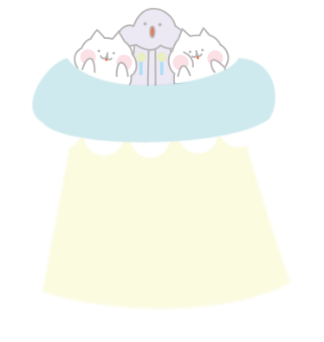
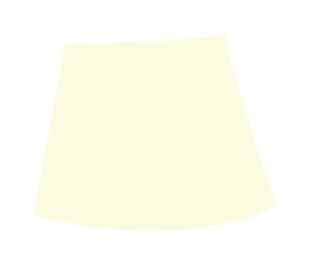
更新しました。

Changed region(s): [[0.0871, 0.0, 0.9, 0.9091]]

diff --git a/js/main.js b/js/main.js
@@ -4,7 +4,7 @@ $(function () {
     var UFO_currentY = UFO_kidnap.offset().top;
     console.log(UFO_currentY);
 
-    
+
 
     //ハンバーガーメニュー
     $('.btn_menu').click(function () {
@@ -17,111 +17,120 @@ $(function () {
         text: 'ニャー、 すもう　かっこいい\nニャー、 ちきゅう　ジャックするね'
     });
 
+//プロローグ中はスクロール不可(setTimeout)
+    setTimeout(function () {
+        // スクロールすると表示
+        $(window).on("scroll", function () {
+
+            //スクロールの値
+            var scrollY = $(this).scrollTop();
+
+
+
+            $('.spaceship_light_img').addClass('fade-in');
 
 
 
 
 
 
-    // スクロールすると表示
-    $(window).on("load scroll resize", function () {
-
-        //スクロールの値
-        var posY = $(this).scrollTop();
 
 
-        // WEBアイコン表示
-        var web_targetY = $('.potfolio_web_background').offset().top - 150;
-        console.log(web_targetY);
 
-        if (posY > web_targetY) {
-            /*表示1_星（左上左）*/
-            $('#web_star8').addClass('web_star8_anime');
-            /*表示2_星（右上左）*/
-            $('#web_star2').addClass('web_star2_anime');
-            /*表示3_星（左上右）*/
-            $('#web_star1').addClass('web_star1_anime');
-            /*表示4_星（右上右）*/
-            $('#web_star3').addClass('web_star3_anime');
-            /*表示5_星（左下右）*/
-            $('#web_star6').addClass('web_star6_anime');
+            // WEBアイコン表示
+            var web_targetY = $('.potfolio_web_background').offset().top - 150;
+            console.log(web_targetY);
 
-            /*表示6_星（右下右）*/
-            $('#web_star4').addClass('web_star4_anime');
-            /*表示7_星（右下左）*/
-            $('#web_star5').addClass('web_star5_anime');
-            /*表示8_星（左下左）*/
-            $('#web_star7').addClass('web_star7_anime');
-            /*表示9_星（右）*/
-            $('#web_star9').addClass('web_star9_anime');
-            /*表示10_星（左）*/
-            $('#web_star10').addClass('web_star10_anime');
-            /*表示11_星（右上）*/
-            $('#web_star11').addClass('web_star11_anime');
-            /*表示15_星（右中間）*/
-            $('#web_star12').addClass('web_star12_anime');
-            /*表示12_星（左下）*/
-            $('#web_star14').addClass('web_star14_anime');
-            /*表示13_星（右下）*/
-            $('#web_star13').addClass('web_star13_anime');
-            /*表示14_星（左上）*/
-            $('#web_star16').addClass('web_star16_anime');
-            /*表示16_星（左中間）*/
-            $('#web_star15').addClass('web_star15_anime');
-            /*表示17_枠*/
-            $('#web_frame').addClass('web_frame_anime');
-            /*表示18_枠*/
-            $('#web_icon_img').addClass('web_icon_img_anime');
+            if (scrollY > web_targetY) {
+                /*表示1_星（左上左）*/
+                $('#web_star8').addClass('web_star8_anime');
+                /*表示2_星（右上左）*/
+                $('#web_star2').addClass('web_star2_anime');
+                /*表示3_星（左上右）*/
+                $('#web_star1').addClass('web_star1_anime');
+                /*表示4_星（右上右）*/
+                $('#web_star3').addClass('web_star3_anime');
+                /*表示5_星（左下右）*/
+                $('#web_star6').addClass('web_star6_anime');
 
-        }
+                /*表示6_星（右下右）*/
+                $('#web_star4').addClass('web_star4_anime');
+                /*表示7_星（右下左）*/
+                $('#web_star5').addClass('web_star5_anime');
+                /*表示8_星（左下左）*/
+                $('#web_star7').addClass('web_star7_anime');
+                /*表示9_星（右）*/
+                $('#web_star9').addClass('web_star9_anime');
+                /*表示10_星（左）*/
+                $('#web_star10').addClass('web_star10_anime');
+                /*表示11_星（右上）*/
+                $('#web_star11').addClass('web_star11_anime');
+                /*表示15_星（右中間）*/
+                $('#web_star12').addClass('web_star12_anime');
+                /*表示12_星（左下）*/
+                $('#web_star14').addClass('web_star14_anime');
+                /*表示13_星（右下）*/
+                $('#web_star13').addClass('web_star13_anime');
+                /*表示14_星（左上）*/
+                $('#web_star16').addClass('web_star16_anime');
+                /*表示16_星（左中間）*/
+                $('#web_star15').addClass('web_star15_anime');
+                /*表示17_枠*/
+                $('#web_frame').addClass('web_frame_anime');
+                /*表示18_枠*/
+                $('#web_icon_img').addClass('web_icon_img_anime');
+
+            }
 
 
-        // Graphicアイコン表示
-        var graphic_targetY = $('.potfolio_graphic_area_background ').offset().top - 150;
-        console.log(graphic_targetY);
+            // Graphicアイコン表示
+            var graphic_targetY = $('.potfolio_graphic_area_background ').offset().top - 150;
+            console.log(graphic_targetY);
 
-        if (posY > graphic_targetY) {
-            /*表示11_枠*/
-            $('#graphic_frame').addClass('graphic_frame_anime');
-            /*表示1_星(左上)*/
-            $('#graphic_star1').addClass('graphic_star1_anime');
-            /*表示3_星（上中間左）*/
-            $('#graphic_star2').addClass('graphic_star2_anime');
-            /*表示5_星（上頂上）*/
-            $('#graphic_star3').addClass('graphic_star3_anime');
-            /*表示4_星（上中間右）*/
-            $('#graphic_star4').addClass('graphic_star4_anime');
-            /*表示2_星（右上）*/
-            $('#graphic_star5').addClass('graphic_star5_anime');
-            /*表示9_星（右中間）*/
-            $('#graphic_star6').addClass('graphic_star6_anime');
-            /*表示6_星（右下）*/
-            $('#graphic_star7').addClass('graphic_star7_anime');
-            /*表示10_星（下中間）*/
-            $('#graphic_star8').addClass('graphic_star8_anime');
-            /*表示7_星（左下）*/
-            $('#graphic_star9').addClass('graphic_star9_anime');
-            /*表示8_星（左中間）*/
-            $('#graphic_star10').addClass('graphic_star10_anime');
-            /*表示12_グラフィックのイラスト*/ $('#graphic_icon_img').addClass('graphic_icon_img_anime');
-        }
+            if (scrollY > graphic_targetY) {
+                /*表示11_枠*/
+                $('#graphic_frame').addClass('graphic_frame_anime');
+                /*表示1_星(左上)*/
+                $('#graphic_star1').addClass('graphic_star1_anime');
+                /*表示3_星（上中間左）*/
+                $('#graphic_star2').addClass('graphic_star2_anime');
+                /*表示5_星（上頂上）*/
+                $('#graphic_star3').addClass('graphic_star3_anime');
+                /*表示4_星（上中間右）*/
+                $('#graphic_star4').addClass('graphic_star4_anime');
+                /*表示2_星（右上）*/
+                $('#graphic_star5').addClass('graphic_star5_anime');
+                /*表示9_星（右中間）*/
+                $('#graphic_star6').addClass('graphic_star6_anime');
+                /*表示6_星（右下）*/
+                $('#graphic_star7').addClass('graphic_star7_anime');
+                /*表示10_星（下中間）*/
+                $('#graphic_star8').addClass('graphic_star8_anime');
+                /*表示7_星（左下）*/
+                $('#graphic_star9').addClass('graphic_star9_anime');
+                /*表示8_星（左中間）*/
+                $('#graphic_star10').addClass('graphic_star10_anime');
+                /*表示12_グラフィックのイラスト*/
+                $('#graphic_icon_img').addClass('graphic_icon_img_anime');
+            }
 
 
 
 
-        //UFOゆらゆら
-        var UFO_posY = $(this).scrollTop();
+            //UFOゆらゆら
+            var UFO_scrollY = $(this).scrollTop();
 
-        UFO_posY = UFO_posY - 50;
+            UFO_scrollY = UFO_scrollY - 50;
 
-        var topPos = UFO_posY / 20 + 50;
+            var topPos = UFO_scrollY / 20 + 50;
 
-        console.log('UFO_posY' + UFO_posY, 'topPos' + topPos);
+            console.log('UFO_scrollY' + UFO_scrollY, 'topPos' + topPos);
 
-        
-        
+        });
+    }, 7000);
 
 
-    });
+
+
 
 })

diff --git a/index.html b/index.html
@@ -112,12 +112,7 @@
             </hgroup>
             <p>Portfolio web site</p>
         </div>
-        <div class="spaceship_img">
-            <img src="images/spaceship_bunyan.png" class="supaceship" alt="宇宙船">
-        </div>
-        <div class="spaceship_light_img">
-            <img src="images/spaceship_light.png" class="supaceship" alt="宇宙船">
-        </div>
+
 
         <!--scroll-->
         <div class="scroll_area">
@@ -137,6 +132,7 @@
             <span class="close">CLOSE</span>
         </button>
         <!--//Hamburger Menu-->
+
         <!--navメニュー-->
         <!--
         <nav class="dorawer_nav_wrapper">
@@ -493,13 +489,32 @@
     <!--profile-->
     <section class="profile_area_background">
         <h2>PROFILE</h2>
+        <div class="profile_bunyan_area">
+            <div>
+                <img src="images/profile_bunyan.png" alt="">
+            </div>
+            <h3>
+                ぶにゃん
+            </h3>
+            <p class="profile_post">
+                ネコ種：スモーネコ
+            </p>
+            <p class="profile_text">
+                「Tぶにゃランド」からやってきたと話しているが、どこの惑星なのかは不明である。ネコの姿をしたネコ星人と思われる。
+
+                地球をジャックするために降り立つも、相撲にハマり相撲界に弟子入り。ぶにゃんと投げ技を繰り広げることから、親方から四股名「ぶにゃん」と命名される。
+
+                決め台詞は「ぶにゃー」。地球人以上に相撲に詳しいネコ星人である。また、小さな世界遺産の民謡である「こきりこ節」もおどれると豪語するなど、なかなか渋い趣味を持っている。
+            </p>
+        </div>
         <div class="profile_area">
             <div>
                 <img src="images/profile.png" alt="プロフィールイラスト">
             </div>
             <div class="profile_text_area">
-                <p class="profile_post">WEBデザイナー / イラストレーター / 飾り巻き寿司愛好家 / フォトグラファー</p>
                 <h3>ムラタキミコ</h3>
+                <p class="profile_post">WEBデザイナー / イラストレーター / 飾り巻き寿司愛好家 / フォトグラファー</p>
+
                 <p class="profile_text">主に基幹業務システム（会計・販売・給与）のテクニカルライターとしてシステムの要件定義、外部設計、マニュアル関連のテクニカルライティングを経験後、WEBメディアの執筆・編集業務に携わるなど、専門知識をわかりやすく伝える仕事に長らく従事。<br>
 
                     難解な専門知識を「楽しく」「わかりやすく」伝えられないかとの思いからWEBデザイン・グラフィックを学ぶ。
@@ -513,7 +528,18 @@
 
 
     <!--move_illust-->
-    <div class="space_bunyan_img">
+    <!--spaceship-->
+    <div class="spaceship_img">
+        <img src="images/spaceship_bunyan.png" class="supaceship" alt="宇宙船">
+    </div>
+
+    <!--spaceship_light_img-->
+    <div class="spaceship_light_img op0">
+        <img src="images/spaceship_light.png" class="supaceship" alt="宇宙船">
+    </div>
+
+    <!--space_bunyan_bace-->
+    <div class="space_bunyan_img op0">
         <img src="images/Bunyan_space_base.png" alt="回転するスモーネコ宇宙">
     </div>
 

diff --git a/css/style.css b/css/style.css
@@ -104,13 +104,13 @@ h3 {
 /*header宇宙船を右下へ移動*/
 @keyframes UFO {
     0% {
-        top: 10%;
+        top: 10px;
         right: -22%;
         margin-right: 0;
     }
 
     100% {
-        top: 42%;
+        top: 320px;
         right: 50%;
         margin-right: -165px;
     }
@@ -196,24 +196,6 @@ h3 {
     font-weight: 600;
     line-height: 2.5;
 }
-
-
-.spaceship_img {
-    position: absolute;
-    top: 10%;
-    right: -22%;
-    z-index: 1;
-    animation: UFO 3s ease calc(var(--starttime) + 1S) forwards normal;
-}
-
-.spaceship_light_img {
-    position: absolute;
-    top: 42%;
-    right: 49%;
-    margin-right: -165px;
-    z-index: 1;
-}
-
 
 /*--------scroll--------*/
 
@@ -873,14 +855,20 @@ h3 {
     width: 100%;
     background: #FFFAD9;
 }
-
-.profile_area {
-    justify-content: center;
-    display: flex;
+.profile_bunyan_area{
+    display: block;
     padding: 20px;
     position: relative;
-    width: 100%;
-    background: #FFFAD9;
+    width: 500px;
+    background: #FFF;    
+}
+.profile_area {
+
+    display: block;
+    padding: 20px;
+    position: relative;
+    width: 500px;
+    background: #FFF;
 }
 
 .profile_text_area {
@@ -894,7 +882,7 @@ h3 {
     color: #FFE066;
 }
 
-.profile_area h3 {
+.profile_area_background h3 {
     font-size: 1.8rem;
     color: #999;
 }
@@ -914,6 +902,29 @@ h3 {
  * move_illust
  *
  *----------------------------*/
+
+.spaceship_img {
+    position: absolute;
+/*
+    top: 10px;
+    right: -22%;
+*/
+    z-index: 10;
+    animation: UFO 3s ease calc(var(--starttime) + 1S) forwards normal;
+}
+
+.spaceship_light_img {
+    position: absolute;
+    top: 380px;
+    right: 49%;
+    margin-right: -165px;
+    z-index: 1;
+}
+
+.spaceship_light_img.fade-in{
+        animation: fade-in 1s ease 0s forwards normal;
+}
+
 
 .space_bunyan_img {
     position: absolute;
